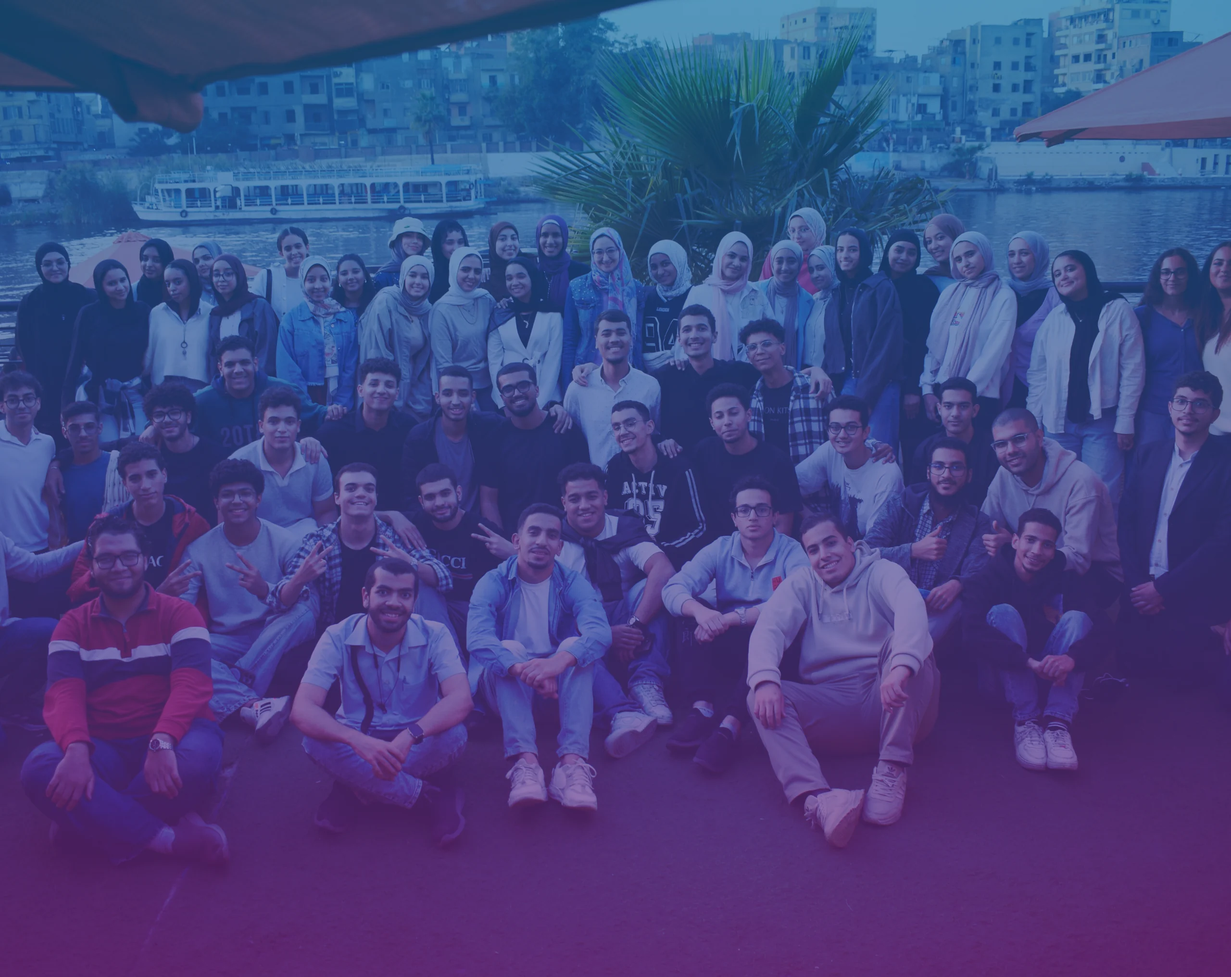
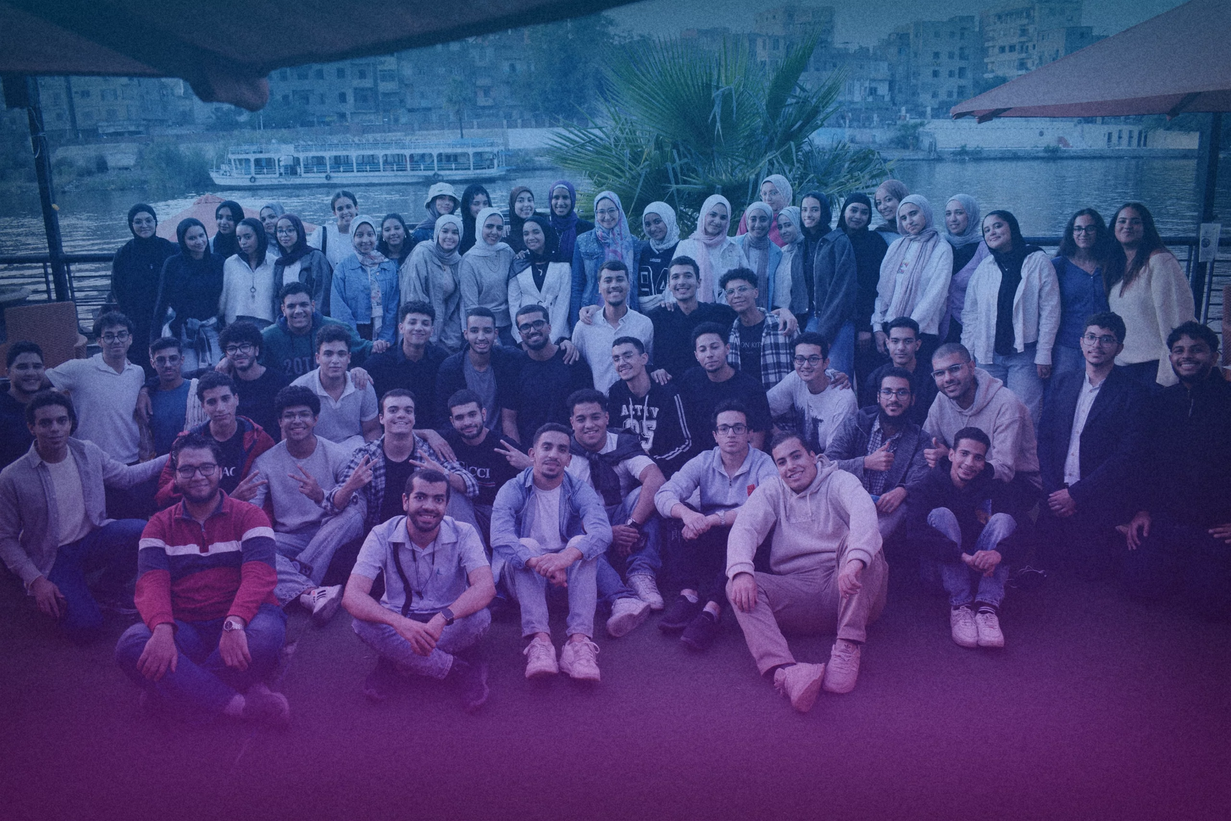
feat(tasks): add row-level scoring badges, submitted/graded counts, and updated hero image

diff --git a/src/components/hr/__tests__/bulk-task-grading.test.tsx b/src/components/hr/__tests__/bulk-task-grading.test.tsx
@@ -284,7 +284,7 @@ describe("BulkTaskGradingView Component", () => {
     expect(screen.getByText("Saved")).toBeInTheDocument();
   });
 
-  it("renders as a compact collapsible row entry that expands on click to show full grading", async () => {
+  it("renders as a compact collapsible row entry showing submitted/total and graded/submitted counts", async () => {
     const user = userEvent.setup();
     render(
       <BulkTaskGradingView
@@ -300,7 +300,9 @@ describe("BulkTaskGradingView Component", () => {
       name: /design summit social media campaign/i,
     });
     expect(toggleBtn).toHaveAttribute("aria-expanded", "false");
-    expect(screen.getByText(/2 \/ 2 graded/i)).toBeInTheDocument();
+    expect(screen.getByText(/submitted 2\/2/i)).toBeInTheDocument();
+    expect(screen.getByText(/graded 2\/2/i)).toBeInTheDocument();
+    expect(screen.queryByText(/to grade/i)).not.toBeInTheDocument();
     expect(screen.queryByLabelText(/effort score for nourhan khaled/i)).not.toBeInTheDocument();
 
     // Clicking the row expands full grading table
@@ -312,5 +314,141 @@ describe("BulkTaskGradingView Component", () => {
     await user.click(toggleBtn);
     expect(toggleBtn).toHaveAttribute("aria-expanded", "false");
     expect(screen.queryByLabelText(/effort score for nourhan khaled/i)).not.toBeInTheDocument();
+  });
+
+  it("shows a row-level notification badge and submitted/graded counts when submitted assignments are awaiting scoring", () => {
+    const { rerender } = render(
+      <BulkTaskGradingView
+        task={{ ...sampleTask, workType: "assignment" }}
+        submissions={[
+          {
+            submissionId: "sub-1",
+            membershipId: "m-1",
+            memberName: "Nourhan Khaled",
+            effortScore: 5,
+            qualityScore: 5,
+            timelinessScore: 5,
+            totalPoints: 100,
+            notes: "",
+            submittedAt: "2026-11-20T12:00:00.000Z",
+            submissionUrl: "https://github.com/embs/a1",
+          },
+          {
+            submissionId: "sub-2",
+            membershipId: "m-2",
+            memberName: "Omar Tarek",
+            effortScore: null,
+            qualityScore: null,
+            timelinessScore: null,
+            totalPoints: null,
+            notes: "",
+            submittedAt: "2026-11-21T12:00:00.000Z",
+            submissionUrl: "https://github.com/embs/a2",
+          },
+          {
+            submissionId: "sub-3",
+            membershipId: "m-3",
+            memberName: "Salma El-Sayed",
+            effortScore: null,
+            qualityScore: null,
+            timelinessScore: null,
+            totalPoints: null,
+            notes: "",
+            submittedAt: "2026-11-22T12:00:00.000Z",
+            submissionUrl: "https://github.com/embs/a3",
+          },
+          {
+            submissionId: "sub-4",
+            membershipId: "m-4",
+            memberName: "Ziad Hany",
+            effortScore: null,
+            qualityScore: null,
+            timelinessScore: null,
+            totalPoints: null,
+            notes: "",
+            submittedAt: null,
+            submissionUrl: null,
+          },
+        ]}
+        collapsible
+        defaultExpanded={false}
+      />
+    );
+
+    // 3 of 4 submitted, 1 of 3 graded, 2 awaiting scoring
+    expect(screen.getByText(/submitted 3\/4/i)).toBeInTheDocument();
+    expect(screen.getByText(/graded 1\/3/i)).toBeInTheDocument();
+    expect(screen.getByText(/2 to grade/i)).toBeInTheDocument();
+
+    // When 0 members have submitted yet, no 'to grade' badge appears and graded shows 0/0
+    rerender(
+      <BulkTaskGradingView
+        task={{ ...sampleTask, workType: "assignment" }}
+        submissions={[
+          {
+            submissionId: "sub-4",
+            membershipId: "m-4",
+            memberName: "Ziad Hany",
+            effortScore: null,
+            qualityScore: null,
+            timelinessScore: null,
+            totalPoints: null,
+            notes: "",
+            submittedAt: null,
+            submissionUrl: null,
+          },
+        ]}
+        collapsible
+        defaultExpanded={false}
+      />
+    );
+
+    expect(screen.getByText(/submitted 0\/1/i)).toBeInTheDocument();
+    expect(screen.getByText(/graded 0\/0/i)).toBeInTheDocument();
+    expect(screen.queryByText(/to grade/i)).not.toBeInTheDocument();
+  });
+
+  it("shows a row-level verification badge on collapsible hr_only tasks with pending items", () => {
+    render(
+      <BulkTaskGradingView
+        task={{
+          id: "t-hr-only",
+          title: "Verify Lab Safety Sign-Off",
+          workType: "task",
+          completionMode: "hr_only",
+          committeeName: "Biomedical",
+          maxPoints: 15,
+        }}
+        submissions={[
+          {
+            submissionId: "sub-1",
+            membershipId: "m-1",
+            memberName: "Nourhan Khaled",
+            effortScore: null,
+            qualityScore: null,
+            timelinessScore: null,
+            totalPoints: null,
+            notes: "",
+            completed: false,
+          },
+          {
+            submissionId: "sub-2",
+            membershipId: "m-2",
+            memberName: "Omar Tarek",
+            effortScore: null,
+            qualityScore: null,
+            timelinessScore: null,
+            totalPoints: 15,
+            notes: "",
+            completed: true,
+          },
+        ]}
+        collapsible
+        defaultExpanded={false}
+      />
+    );
+
+    expect(screen.getByText(/1 to verify/i)).toBeInTheDocument();
+    expect(screen.getByText(/1 \/ 2 completed/i)).toBeInTheDocument();
   });
 });

diff --git a/src/components/hr/bulk-task-grading-view.tsx b/src/components/hr/bulk-task-grading-view.tsx
@@ -45,6 +45,7 @@ export interface SubmissionGradingItem {
   notes: string;
   submissionUrl?: string | null;
   submissionText?: string | null;
+  submittedAt?: string | null;
   completed?: boolean;
 }
 
@@ -80,6 +81,15 @@ function isSafeHttpUrl(url: string | null | undefined): url is string {
   }
 }
 
+function isSubmissionSubmitted(sub: SubmissionGradingItem): boolean {
+  return Boolean(
+    sub.submittedAt ||
+      sub.submissionUrl?.trim() ||
+      sub.submissionText?.trim() ||
+      sub.totalPoints !== null
+  );
+}
+
 export function BulkTaskGradingView({
   task,
   submissions: initialSubmissions,
@@ -110,7 +120,18 @@ export function BulkTaskGradingView({
   const completedCount = submissions.filter((sub) =>
     Boolean(sub.completed ?? (sub.totalPoints !== null && sub.totalPoints > 0))
   ).length;
+  const submittedCount = submissions.filter(isSubmissionSubmitted).length;
   const gradedCount = submissions.filter((sub) => sub.totalPoints !== null).length;
+  const pendingGradingCount = isCheckableTask
+    ? 0
+    : submissions.filter(
+        (sub) => isSubmissionSubmitted(sub) && sub.totalPoints === null
+      ).length;
+  const pendingVerifyCount =
+    isCheckableTask && isHrOnlyTask ? submissions.length - completedCount : 0;
+  const attentionCount = isCheckableTask
+    ? pendingVerifyCount
+    : pendingGradingCount;
 
   const handleScoreChange = (
     idx: number,
@@ -281,14 +302,16 @@ export function BulkTaskGradingView({
     if (!collapsible) return body;
 
     const totalCount = submissions.length;
-    const progressDone = isCheckableTask ? completedCount : gradedCount;
-    const allDone = totalCount > 0 && progressDone === totalCount;
-    const progressLabel = isCheckableTask
-      ? `${completedCount} / ${totalCount} completed`
-      : `${gradedCount} / ${totalCount} graded`;
+    const allTasksDone = isCheckableTask && totalCount > 0 && completedCount === totalCount;
+    const allSubmittedGraded =
+      !isCheckableTask && submittedCount > 0 && gradedCount === submittedCount;
 
     return (
-      <div className="overflow-hidden rounded-xl border border-border bg-white shadow-xs transition-colors hover:border-[#772583]/40">
+      <div
+        className={`overflow-hidden rounded-xl border bg-white shadow-xs transition-colors hover:border-[#772583]/40 ${
+          attentionCount > 0 ? "border-[#772583]/45" : "border-border"
+        }`}
+      >
         <button
           type="button"
           aria-expanded={isExpanded}
@@ -339,16 +362,40 @@ export function BulkTaskGradingView({
             </div>
           </div>
 
-          <div className="flex shrink-0 items-center gap-2 sm:gap-3">
-            <span
-              className={
-                allDone
-                  ? "inline-flex rounded-full bg-[#eef8e0] px-2.5 py-0.5 text-xs font-semibold tabular-nums text-[#2f600b]"
-                  : "inline-flex rounded-full bg-muted px-2.5 py-0.5 text-xs font-semibold tabular-nums text-[#002855]"
-              }
-            >
-              {progressLabel}
-            </span>
+          <div className="flex shrink-0 flex-wrap items-center justify-end gap-1.5 sm:gap-2">
+            {attentionCount > 0 && (
+              <span
+                className="inline-flex items-center rounded-full bg-[#772583] px-2.5 py-0.5 text-[11px] font-bold tabular-nums text-white"
+              >
+                {attentionCount} {isCheckableTask ? "to verify" : "to grade"}
+              </span>
+            )}
+            {isCheckableTask ? (
+              <span
+                className={
+                  allTasksDone
+                    ? "inline-flex rounded-full bg-[#eef8e0] px-2.5 py-0.5 text-xs font-semibold tabular-nums text-[#2f600b]"
+                    : "inline-flex rounded-full bg-muted px-2.5 py-0.5 text-xs font-semibold tabular-nums text-[#002855]"
+                }
+              >
+                {completedCount} / {totalCount} completed
+              </span>
+            ) : (
+              <>
+                <span className="inline-flex rounded-full bg-muted px-2.5 py-0.5 text-xs font-semibold tabular-nums text-[#002855]">
+                  Submitted {submittedCount}/{totalCount}
+                </span>
+                <span
+                  className={
+                    allSubmittedGraded
+                      ? "inline-flex rounded-full bg-[#eef8e0] px-2.5 py-0.5 text-xs font-semibold tabular-nums text-[#2f600b]"
+                      : "inline-flex rounded-full bg-muted px-2.5 py-0.5 text-xs font-semibold tabular-nums text-[#002855]"
+                  }
+                >
+                  Graded {gradedCount}/{submittedCount}
+                </span>
+              </>
+            )}
             <span className="hidden font-mono text-xs font-bold tabular-nums text-muted-foreground sm:inline">
               {task.maxPoints} pts
             </span>

diff --git a/src/app/hr/tasks/page.tsx b/src/app/hr/tasks/page.tsx
@@ -54,6 +54,7 @@ export default async function HrTasksPage() {
     notes: string;
     submissionUrl?: string | null;
     submissionText?: string | null;
+    submittedAt?: string | null;
     completed?: boolean;
   };
   const bulkTasks: { task: BulkTask; submissions: BulkSubmission[] }[] = [];
@@ -349,6 +350,7 @@ export default async function HrTasksPage() {
             notes: sub.notes ?? "",
             submissionUrl: sub.submissionUrl,
             submissionText: sub.submissionText,
+            submittedAt: sub.submittedAt ? sub.submittedAt.toISOString() : null,
             completed: sub.gradedAt !== null && (sub.totalPoints ?? 0) > 0,
           });
           subsByTask.set(sub.taskId, list);
